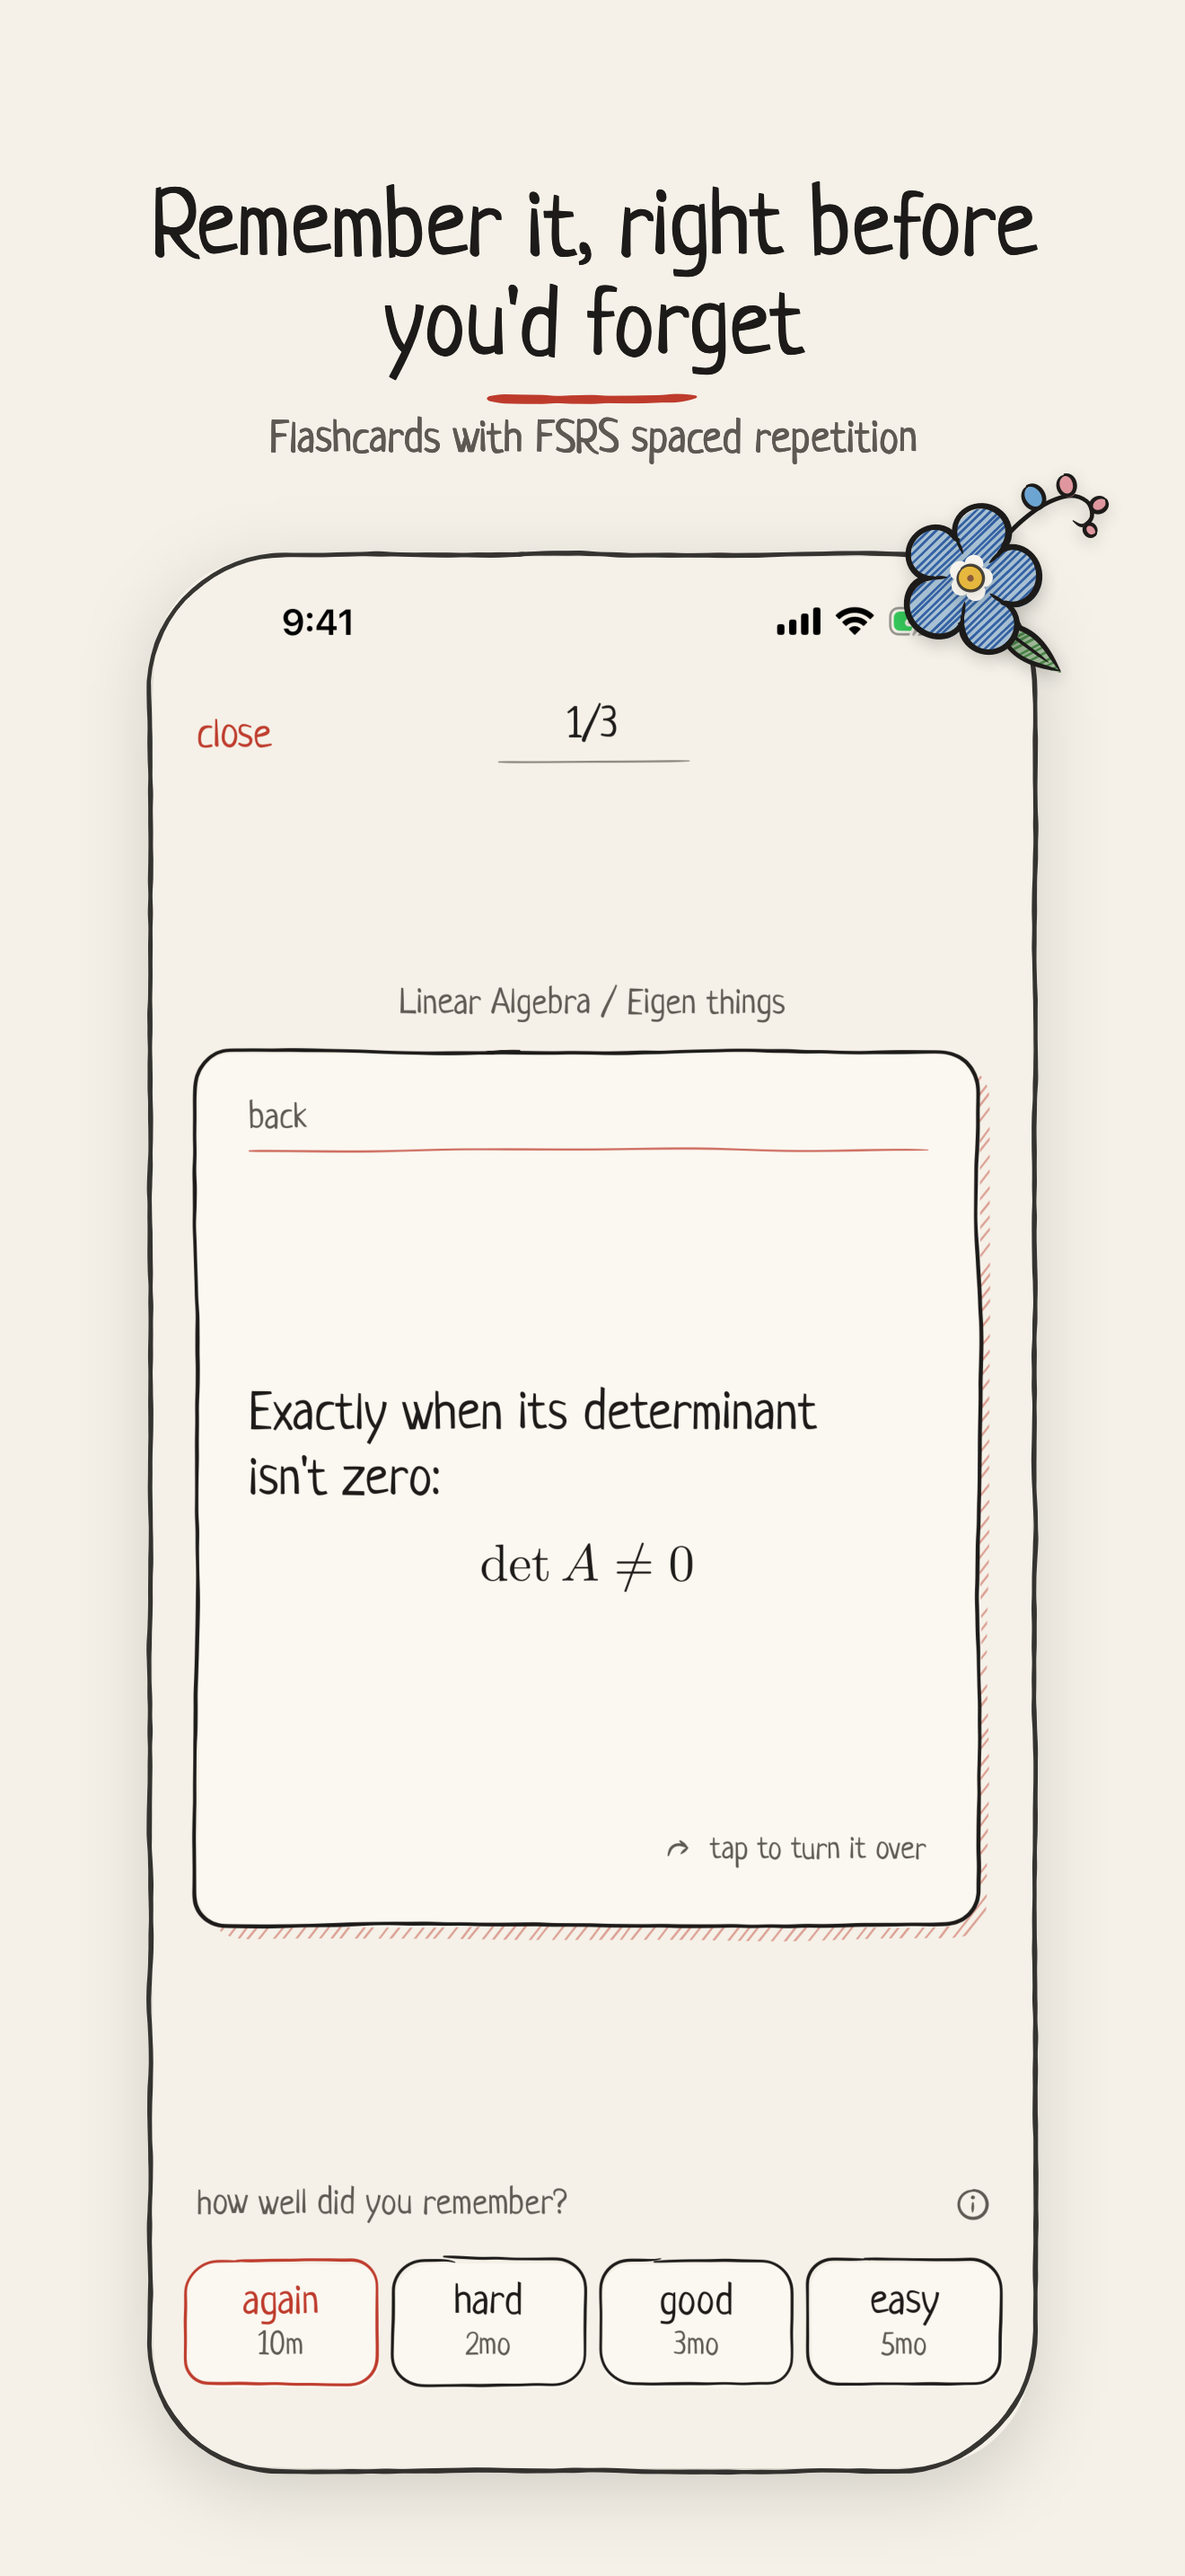
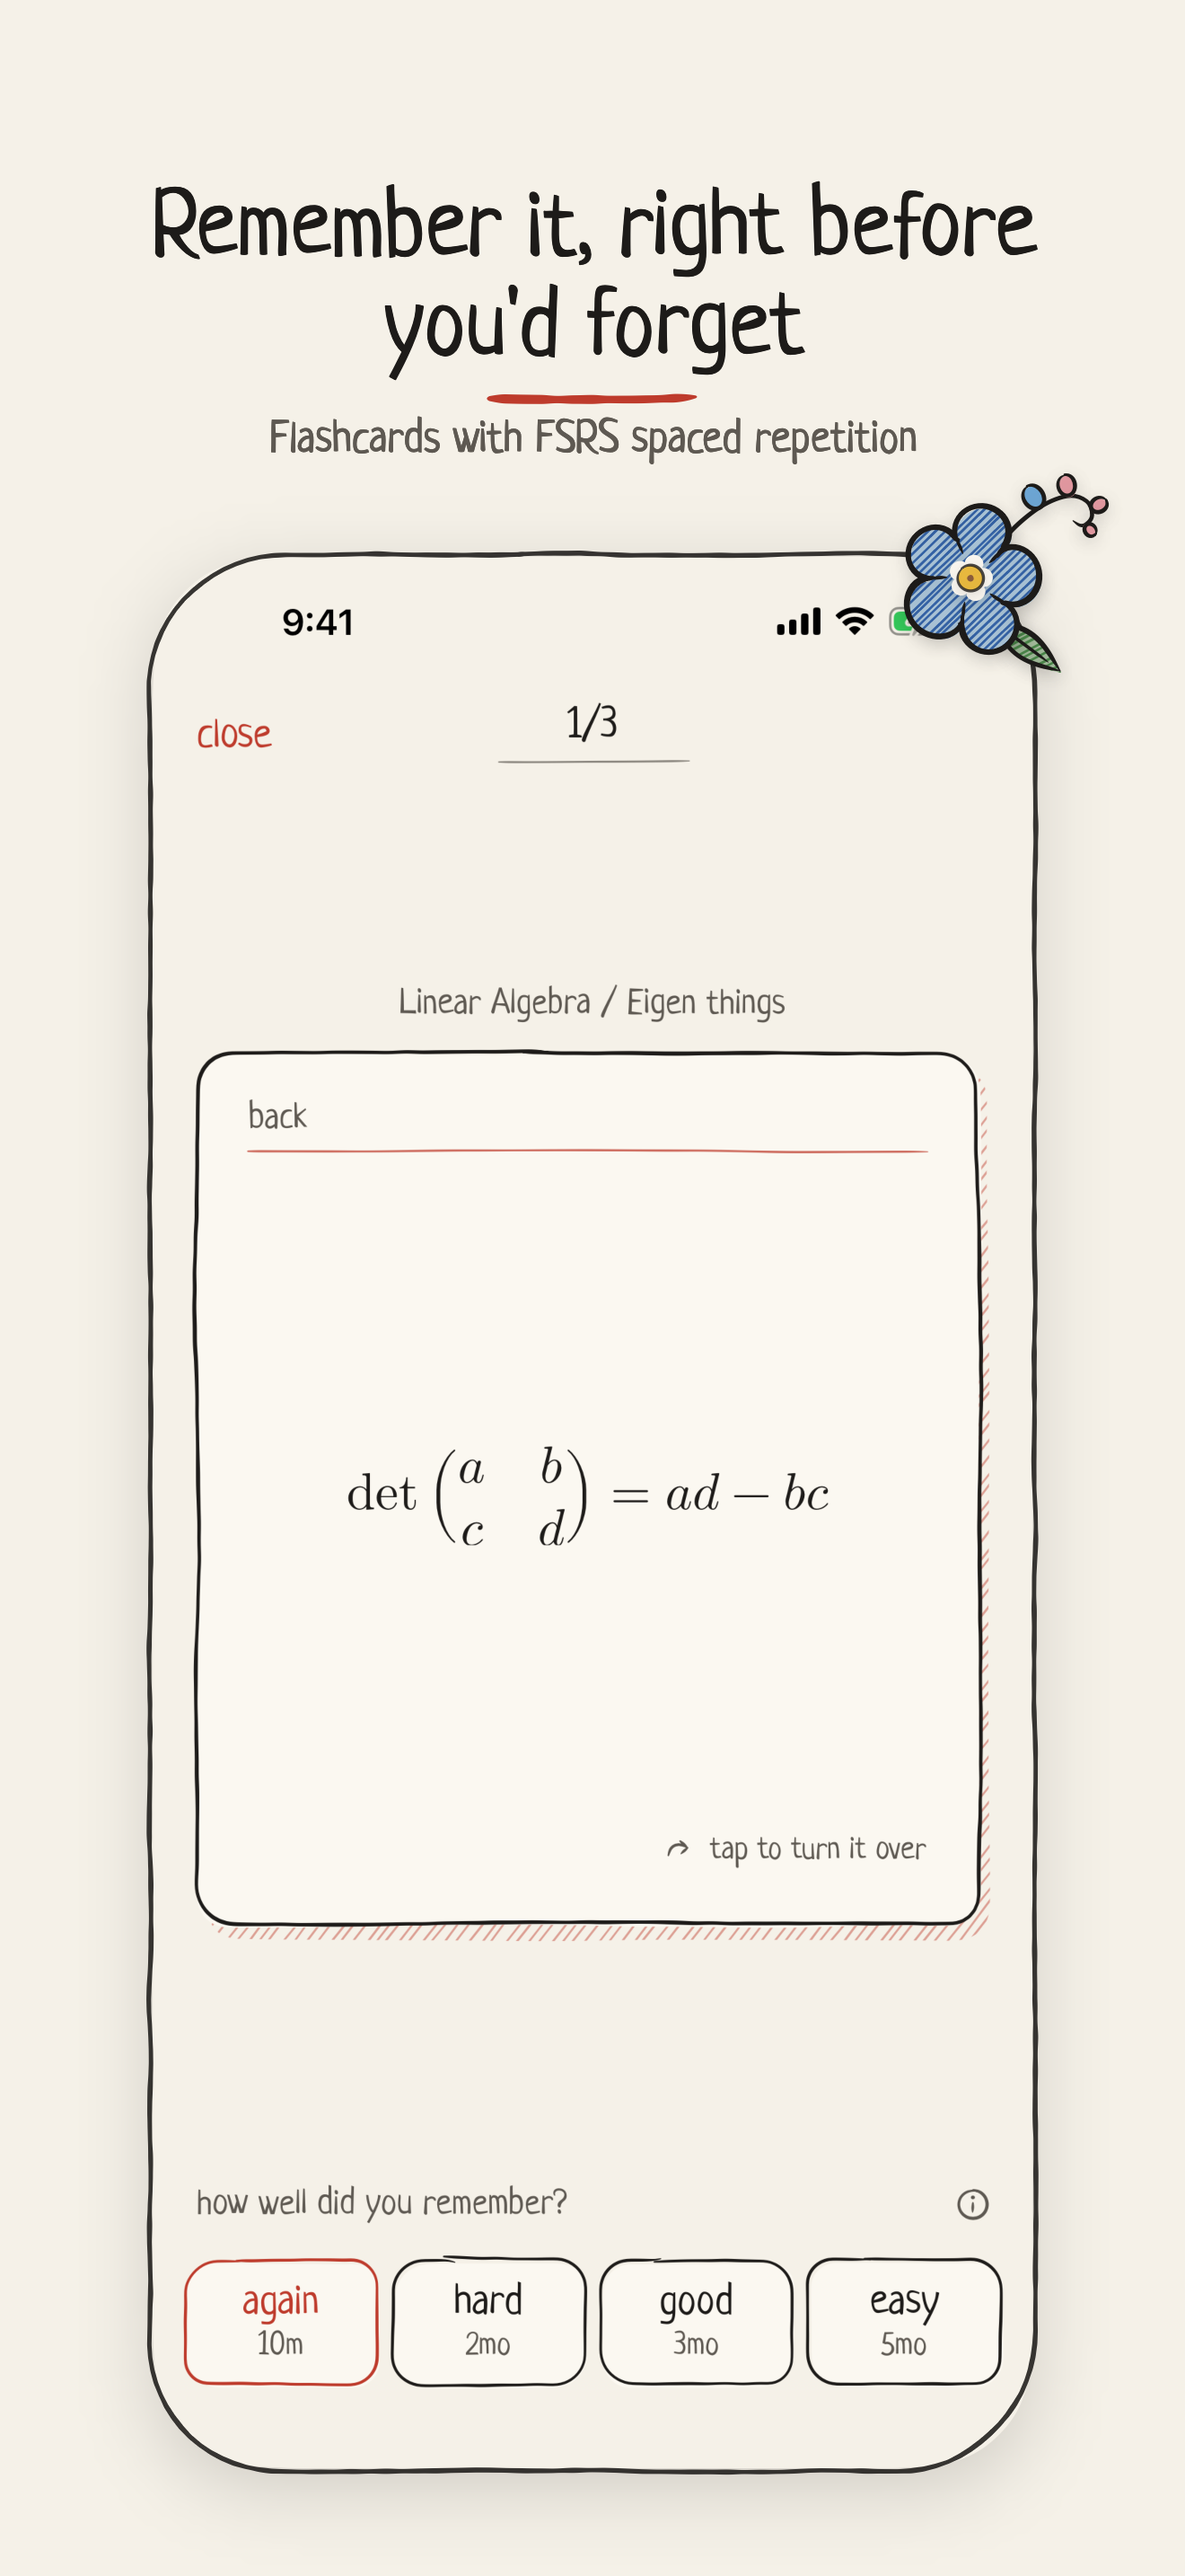
Study a 2 × 2 determinant in the first App Store screenshot, its formula alone in the middle of the card
The card in `1-study` set a sentence at the left above a formula in the middle. The demo deck's first card
now asks for the determinant of a 2 × 2 matrix and answers with the formula alone, which a study card
sets in the middle, in English and in Russian. `1-study` is made again on the iPhone, the iPad and the
Mac; the iPad's status bar keeps the date the other iPad screenshots show.

diff --git a/inkept/App/DemoLibrary.swift b/inkept/App/DemoLibrary.swift
@@ -466,8 +466,8 @@ enum DemoLibrary {
                     plan: .due
                 ),
                 DemoCard(
-                    front: "When is a square matrix invertible?",
-                    back: "Exactly when its determinant isn't zero:\n\n$$\\det A \\neq 0$$",
+                    front: "The determinant of a 2 × 2 matrix",
+                    back: "$$\\det\\begin{pmatrix} a & b \\\\ c & d \\end{pmatrix} = ad - bc$$",
                     plan: .due
                 ),
                 DemoCard(
@@ -523,8 +523,8 @@ enum DemoLibrary {
                     plan: .due
                 ),
                 DemoCard(
-                    front: "Когда квадратная матрица обратима?",
-                    back: "Ровно тогда, когда её определитель не равен нулю:\n\n$$\\det A \\neq 0$$",
+                    front: "Определитель матрицы 2 × 2",
+                    back: "$$\\det\\begin{pmatrix} a & b \\\\ c & d \\end{pmatrix} = ad - bc$$",
                     plan: .due
                 ),
                 DemoCard(front: "След матрицы равен…", back: "…сумме её собственных значений с учётом кратности.", plan: .later),

diff --git a/AppStore/README.md b/AppStore/README.md
@@ -14,7 +14,7 @@ In the repository:
 - [x] [Privacy policy](../PRIVACY.md), [help page](../SUPPORT.md), [license](../LICENSE) and [acknowledgements](../ACKNOWLEDGEMENTS.md), linked from Settings → about
 - [x] Version 1.0 (build 1)
 - [ ] A contact email on the [help page](../SUPPORT.md): App Store Connect's help says the Support URL has to lead to contact details, and opening an issue takes a GitHub account
-- [ ] The iPad and Mac screenshots made again (`Scripts/aso-screenshots.sh ipad mac`): in `1-study` the card's formula `\det A \neq 0` shows as a lone `0`, which `CardContentView` now fixes
+- [x] `1-study` made again on every device, with a card whose one formula sits whole in the middle (on the iPad and the Mac the old card's `\det A \neq 0` showed as a lone `0`)
 
 In App Store Connect and the developer account (by hand):
 
